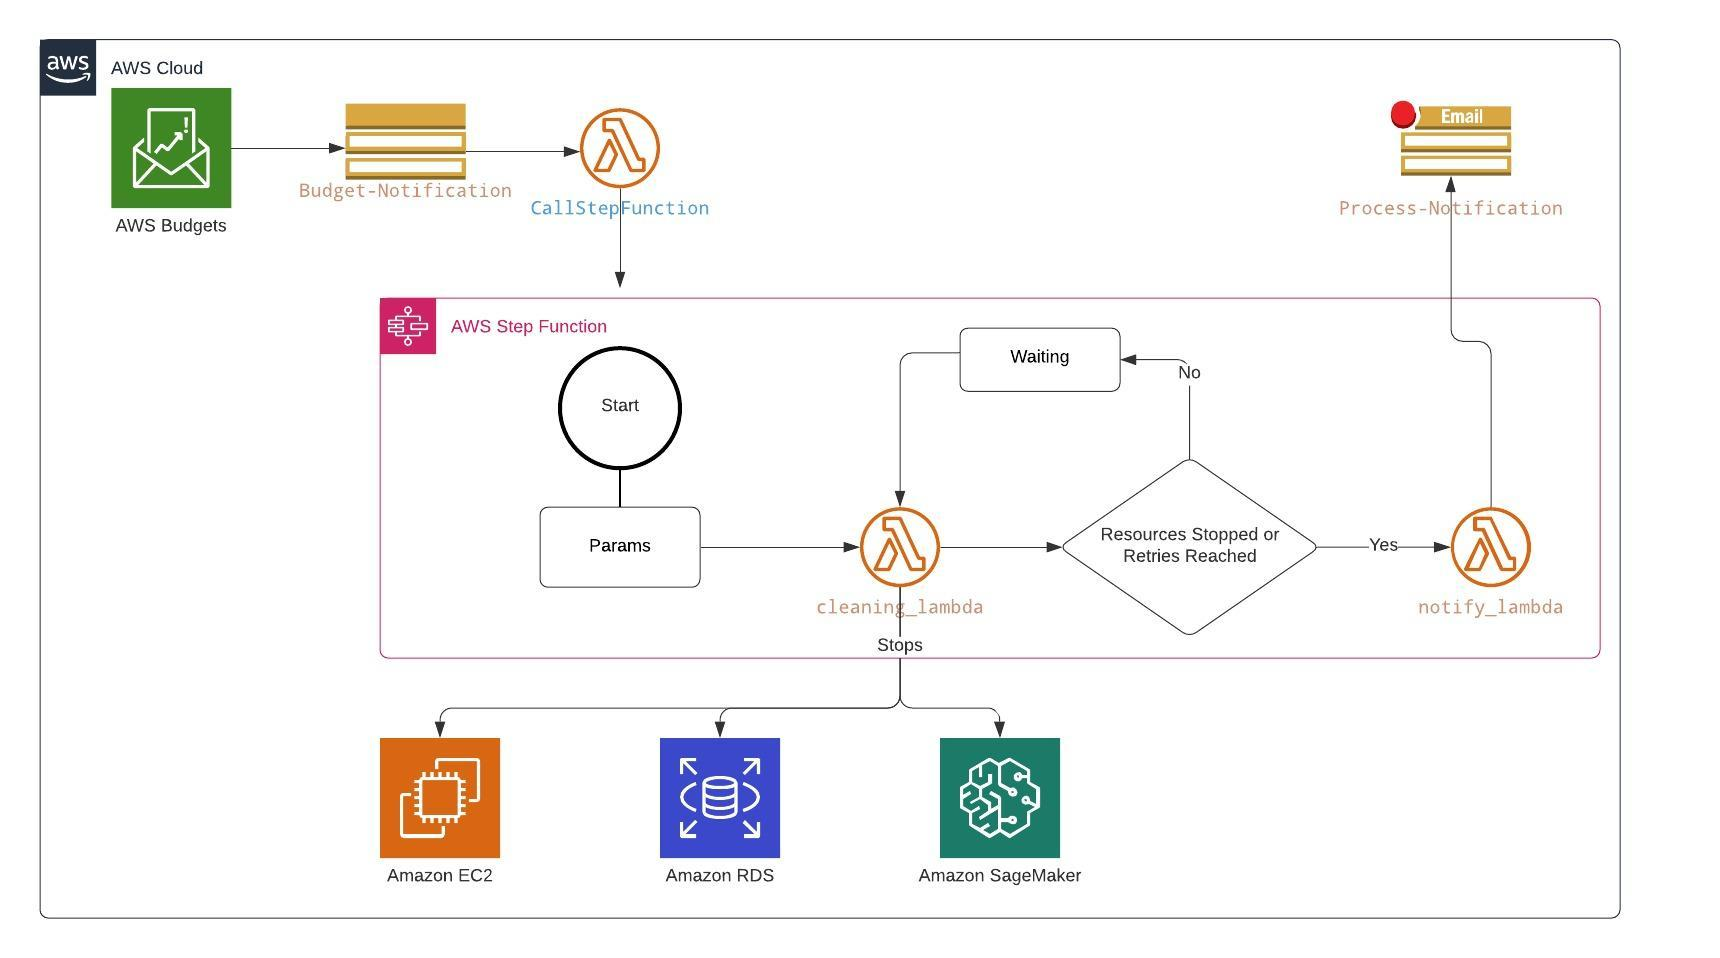
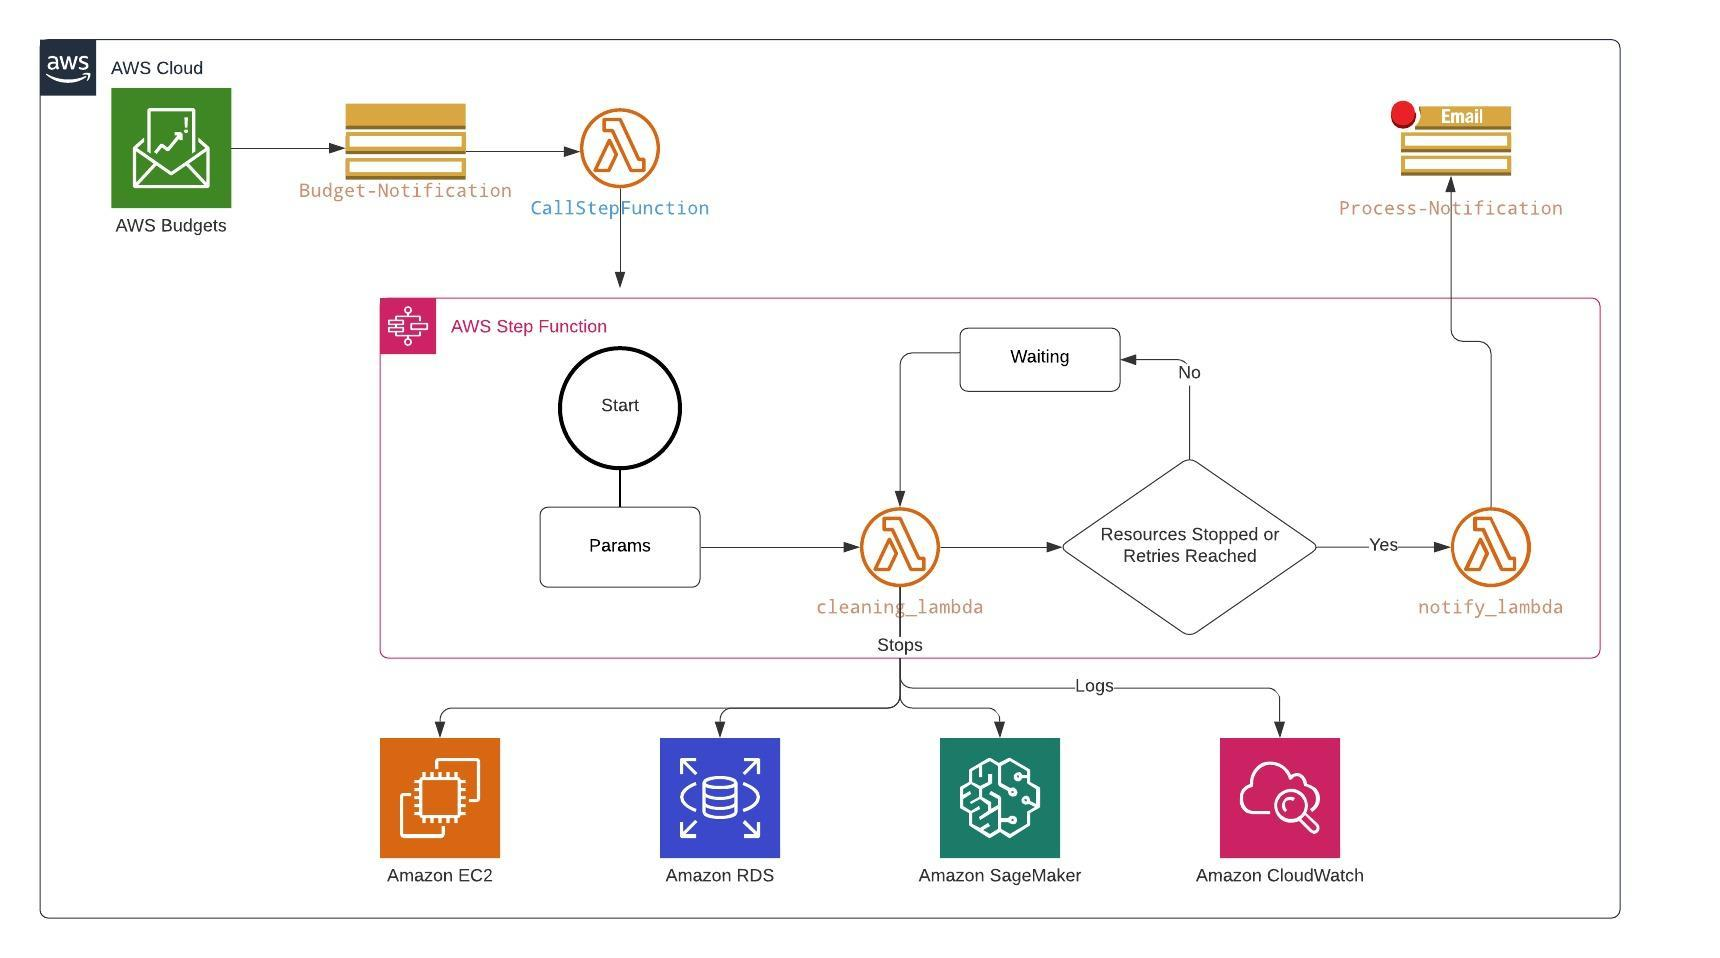
adding description to parameters

Changed region(s): [[0.7087, 0.7568, 0.8012, 0.9384], [0.6163, 0.6962, 0.6471, 0.7265]]

diff --git a/README.md b/README.md
@@ -8,28 +8,19 @@ This repository contains the template for the Lambda School project. This templa
   <img src="img/LambdaSchool.png"/>
 </p>
 
-* **AWS Budgets**: Allows the students define a budget. It's set to send a notification to all the subscribers when the cost of the other services exceed the 100% of the defined amount of money. This resource reset's the first day of everý month.
+* **AWS Budgets**: Allows the students define a budget. It sends a notification to all the subscribers when the cost of the other services exceed the 100% of the defined amount of money. This resource reset's the first day of everý month.
 
 * **Amazon SNS**: Amazon Simple Notification Service creates a Topic and publish there, every resources subscribed to that Topic will receive a notification when the SNS get triggered.
 
-* **Lamda Function and State Machine**: Lambda in charge of executing the process in the state machine (Step Functions). Lambda functions orchestration to start the process of stopping EC2, RDS and Sage Maker instaces.
+* **Lamda Function and State Machine**: Lambda in charge of executing the process in the state machine (Step Functions). Step functionas are Lambda functions orchestration that starts the process of stopping EC2, RDS and Sage Maker instaces.
 
-* **SNS and Email Notification**: As is writted before, SNS creates a Topic and all the resources subscribed can get a notification, in this case every email selected is going to receive a message when the budget is reached and all the instaces are off.
+* **SNS and Email Notification**: SNS creates a Topic and all the resources subscribed can get a notification, in this the email given as a parameter to the template will receive a notification about results of the process.
 
-* **AWS CloudWatch**: 
-
-### How it works?
-
-The *AWS Budget* resource it's created to stablish a maximum amount of money that can be spent. When the cost of the resources exceed the 100% of the stablished budget, it would activate the *AWS SNS* to create a *Topic* and publish notifications in all the subscribers, in this case a *Lambda Function* is going to be the subscriber. 
-
-The *Lambda Function* works like that:
-
-Finally, it's important to say that at the moment all the infrastructure was created *AWS SNS* is going to send an email to the students with a subscription request. If the subscription request was accepted, the students will receive an alert telling that the EC2, the RDS and the SageMaker instances are off.
-
+* **AWS CloudWatch**: Lambda in charge of cleaning the resources sends logs to cloudwatch. This logs will be sent to the user as a cloudwatch link to see in detail the results of the process.
 
 ## Infrastructure
 
-The following template creates the following resources
+The template creates the following resources
 
 <p align="center">
   <img src="img/Infra_Lambda_School.jpeg"/>
@@ -62,3 +53,4 @@ The following template creates the following resources
 
 </center>
 
+* **Important:** When installing the template via cloudformation, it is necesary to confirm subscription that will be sent to the email provided in the parameters. This subscription is to receive the notification of the results of the process.
